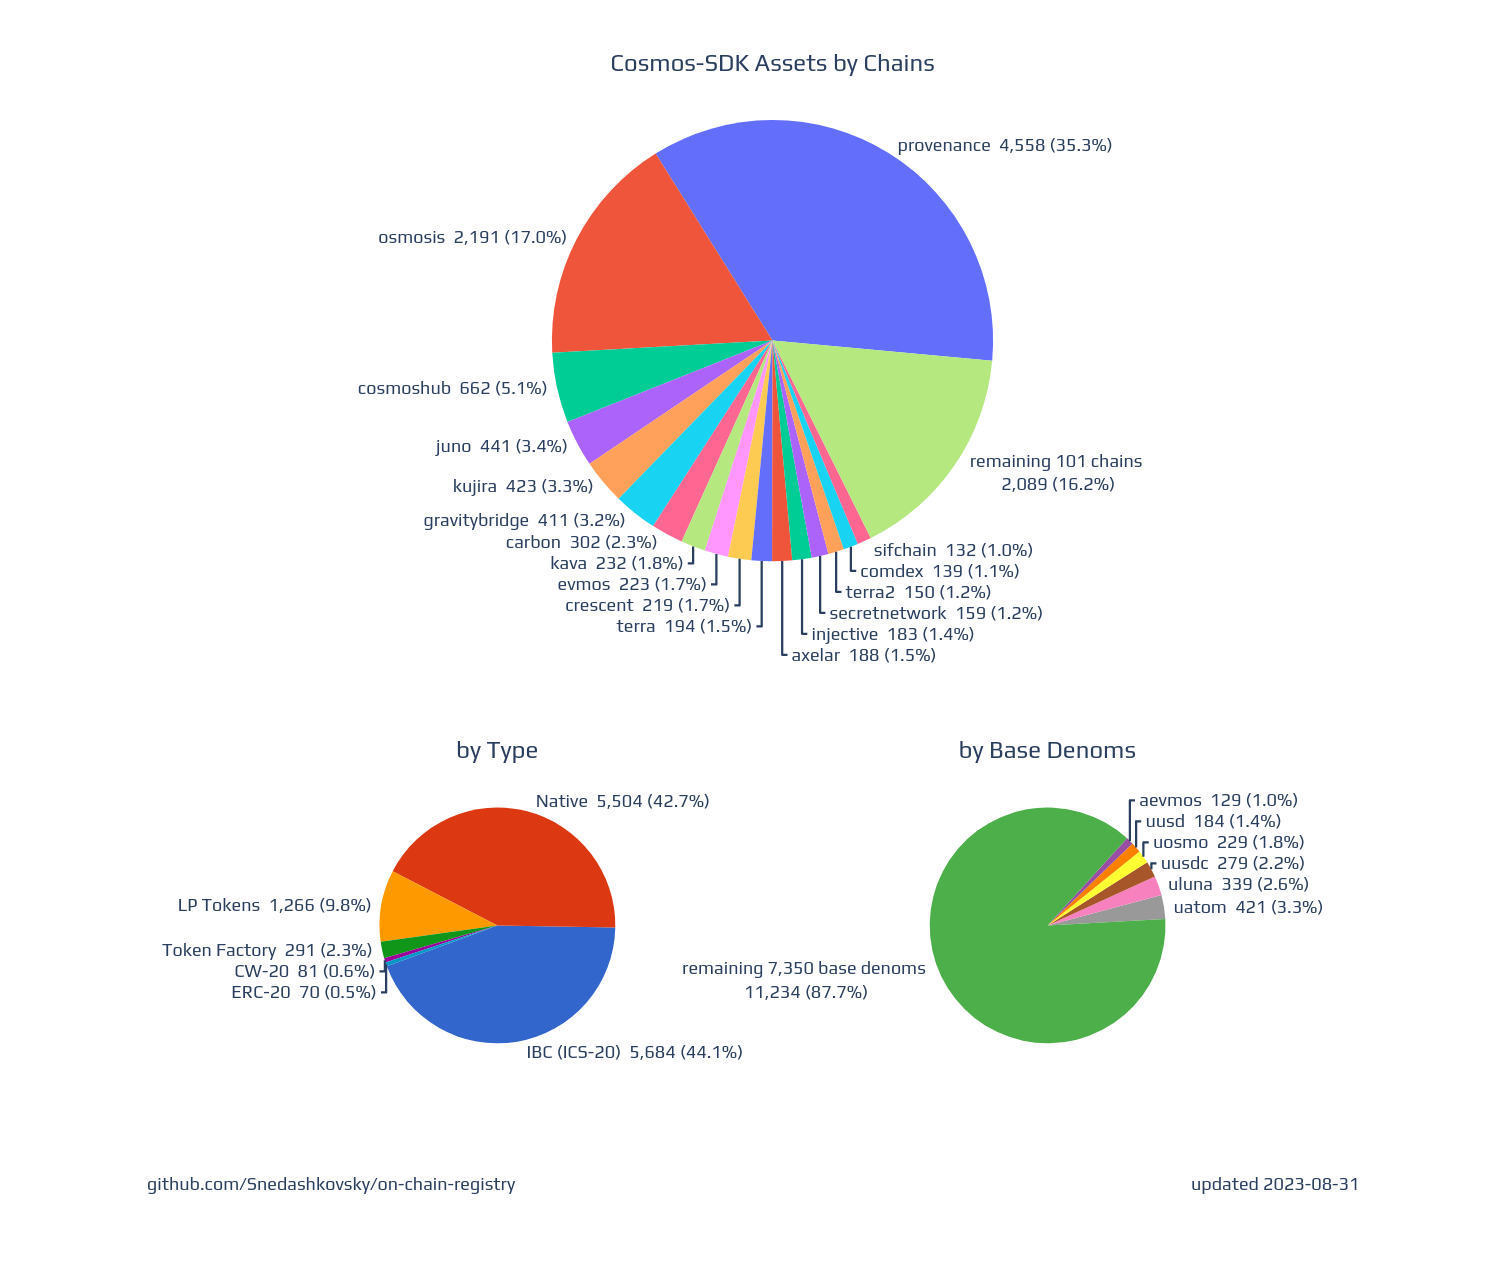
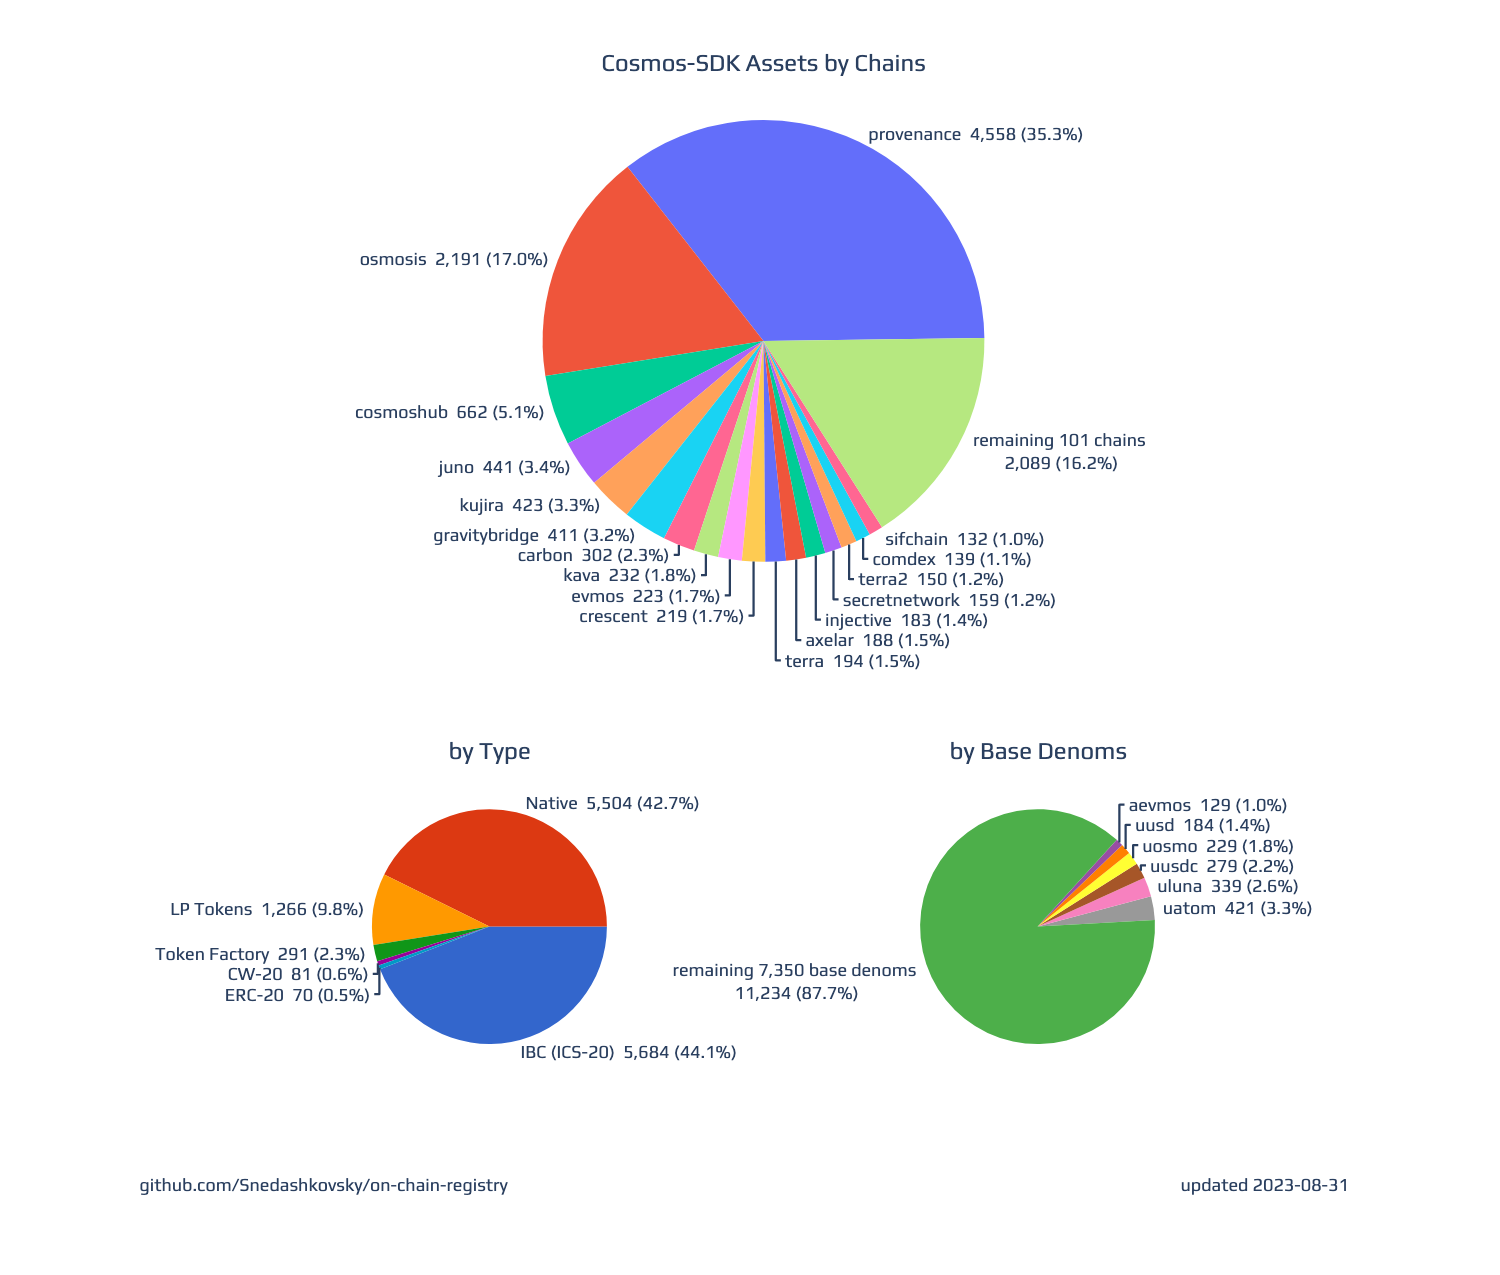
- update charts

diff --git a/charts/index.html b/charts/index.html
@@ -2,6 +2,6 @@
 <head><meta charset="utf-8" /></head>
 <body>
     <div>                        <script type="text/javascript">window.PlotlyConfig = {MathJaxConfig: 'local'};</script>
-        <script charset="utf-8" src="https://cdn.plot.ly/plotly-2.24.1.min.js"></script>                <div id="df564438-068c-45b6-aba3-d0b1ab366893" class="plotly-graph-div" style="height:850px; width:1000px;"></div>            <script type="text/javascript">                                    window.PLOTLYENV=window.PLOTLYENV || {};                                    if (document.getElementById("df564438-068c-45b6-aba3-d0b1ab366893")) {                    Plotly.newPlot(                        "df564438-068c-45b6-aba3-d0b1ab366893",                        [{"labels":["provenance","osmosis","cosmoshub","juno","kujira","gravitybridge","carbon","kava","evmos","crescent","terra","axelar","injective","secretnetwork","terra2","comdex","sifchain","remaining 101 chains\n\u003cbr\u003e"],"marker":{"colors":["#636EFA","#EF553B","#00CC96","#AB63FA","#FFA15A","#19D3F3","#FF6692","#B6E880","#FF97FF","#FECB52"]},"name":"assets by chains","rotation":-32,"sort":false,"text":["4,558","2,191","662","441","423","411","302","232","223","219","194","188","183","159","150","139","132","2,089"],"values":[4558,2191,662,441,423,411,302,232,223,219,194,188,183,159,150,139,132,2089],"type":"pie","domain":{"x":[0.0,1.0],"y":[0.5700000000000001,1.0]},"hoverinfo":"label+value+percent","hovertemplate":"%{label}\u003cbr\u003e%{value:\u003e,} (%{percent:.1%})","textinfo":"label+value+percent","textposition":"outside","texttemplate":" %{label}  %{value:\u003e,} (%{percent:.1%}) "},{"labels":["IBC (ICS-20)","Native","LP Tokens","Token Factory","CW-20","ERC-20"],"marker":{"colors":["#3366CC","#DC3912","#FF9900","#109618","#990099","#0099C6","#DD4477","#66AA00","#B82E2E","#316395"]},"name":"assets by type","rotation":91,"sort":false,"text":["5,684","5,504","1,266","291","81","70"],"values":[5684,5504,1266,291,81,70],"type":"pie","domain":{"x":[0.0,0.3],"y":[0.0,0.43]},"hoverinfo":"label+value+percent","hovertemplate":"%{label}\u003cbr\u003e%{value:\u003e,} (%{percent:.1%})","textinfo":"label+value+percent","textposition":"outside","texttemplate":" %{label}  %{value:\u003e,} (%{percent:.1%}) "},{"labels":["uatom","uluna","uusdc","uosmo","uusd","aevmos","remaining 7,350 base denoms\n\u003cbr\u003e"],"marker":{"colors":["rgb(153,153,153)","rgb(247,129,191)","rgb(166,86,40)","rgb(255,255,51)","rgb(255,127,0)","rgb(152,78,163)","rgb(77,175,74)","rgb(55,126,184)","rgb(228,26,28)"]},"name":"assets by base denoms","rotation":75,"sort":false,"text":["421","339","279","229","184","129","11,234"],"values":[421,339,279,229,184,129,11234],"type":"pie","domain":{"x":[0.7,1.0],"y":[0.0,0.43]},"hoverinfo":"label+value+percent","hovertemplate":"%{label}\u003cbr\u003e%{value:\u003e,} (%{percent:.1%})","textinfo":"label+value+percent","textposition":"outside","texttemplate":" %{label}  %{value:\u003e,} (%{percent:.1%}) "}],                        {"template":{"data":{"barpolar":[{"marker":{"line":{"color":"white","width":0.5},"pattern":{"fillmode":"overlay","size":10,"solidity":0.2}},"type":"barpolar"}],"bar":[{"error_x":{"color":"#2a3f5f"},"error_y":{"color":"#2a3f5f"},"marker":{"line":{"color":"white","width":0.5},"pattern":{"fillmode":"overlay","size":10,"solidity":0.2}},"type":"bar"}],"carpet":[{"aaxis":{"endlinecolor":"#2a3f5f","gridcolor":"#C8D4E3","linecolor":"#C8D4E3","minorgridcolor":"#C8D4E3","startlinecolor":"#2a3f5f"},"baxis":{"endlinecolor":"#2a3f5f","gridcolor":"#C8D4E3","linecolor":"#C8D4E3","minorgridcolor":"#C8D4E3","startlinecolor":"#2a3f5f"},"type":"carpet"}],"choropleth":[{"colorbar":{"outlinewidth":0,"ticks":""},"type":"choropleth"}],"contourcarpet":[{"colorbar":{"outlinewidth":0,"ticks":""},"type":"contourcarpet"}],"contour":[{"colorbar":{"outlinewidth":0,"ticks":""},"colorscale":[[0.0,"#0d0887"],[0.1111111111111111,"#46039f"],[0.2222222222222222,"#7201a8"],[0.3333333333333333,"#9c179e"],[0.4444444444444444,"#bd3786"],[0.5555555555555556,"#d8576b"],[0.6666666666666666,"#ed7953"],[0.7777777777777778,"#fb9f3a"],[0.8888888888888888,"#fdca26"],[1.0,"#f0f921"]],"type":"contour"}],"heatmapgl":[{"colorbar":{"outlinewidth":0,"ticks":""},"colorscale":[[0.0,"#0d0887"],[0.1111111111111111,"#46039f"],[0.2222222222222222,"#7201a8"],[0.3333333333333333,"#9c179e"],[0.4444444444444444,"#bd3786"],[0.5555555555555556,"#d8576b"],[0.6666666666666666,"#ed7953"],[0.7777777777777778,"#fb9f3a"],[0.8888888888888888,"#fdca26"],[1.0,"#f0f921"]],"type":"heatmapgl"}],"heatmap":[{"colorbar":{"outlinewidth":0,"ticks":""},"colorscale":[[0.0,"#0d0887"],[0.1111111111111111,"#46039f"],[0.2222222222222222,"#7201a8"],[0.3333333333333333,"#9c179e"],[0.4444444444444444,"#bd3786"],[0.5555555555555556,"#d8576b"],[0.6666666666666666,"#ed7953"],[0.7777777777777778,"#fb9f3a"],[0.8888888888888888,"#fdca26"],[1.0,"#f0f921"]],"type":"heatmap"}],"histogram2dcontour":[{"colorbar":{"outlinewidth":0,"ticks":""},"colorscale":[[0.0,"#0d0887"],[0.1111111111111111,"#46039f"],[0.2222222222222222,"#7201a8"],[0.3333333333333333,"#9c179e"],[0.4444444444444444,"#bd3786"],[0.5555555555555556,"#d8576b"],[0.6666666666666666,"#ed7953"],[0.7777777777777778,"#fb9f3a"],[0.8888888888888888,"#fdca26"],[1.0,"#f0f921"]],"type":"histogram2dcontour"}],"histogram2d":[{"colorbar":{"outlinewidth":0,"ticks":""},"colorscale":[[0.0,"#0d0887"],[0.1111111111111111,"#46039f"],[0.2222222222222222,"#7201a8"],[0.3333333333333333,"#9c179e"],[0.4444444444444444,"#bd3786"],[0.5555555555555556,"#d8576b"],[0.6666666666666666,"#ed7953"],[0.7777777777777778,"#fb9f3a"],[0.8888888888888888,"#fdca26"],[1.0,"#f0f921"]],"type":"histogram2d"}],"histogram":[{"marker":{"pattern":{"fillmode":"overlay","size":10,"solidity":0.2}},"type":"histogram"}],"mesh3d":[{"colorbar":{"outlinewidth":0,"ticks":""},"type":"mesh3d"}],"parcoords":[{"line":{"colorbar":{"outlinewidth":0,"ticks":""}},"type":"parcoords"}],"pie":[{"automargin":true,"type":"pie"}],"scatter3d":[{"line":{"colorbar":{"outlinewidth":0,"ticks":""}},"marker":{"colorbar":{"outlinewidth":0,"ticks":""}},"type":"scatter3d"}],"scattercarpet":[{"marker":{"colorbar":{"outlinewidth":0,"ticks":""}},"type":"scattercarpet"}],"scattergeo":[{"marker":{"colorbar":{"outlinewidth":0,"ticks":""}},"type":"scattergeo"}],"scattergl":[{"marker":{"colorbar":{"outlinewidth":0,"ticks":""}},"type":"scattergl"}],"scattermapbox":[{"marker":{"colorbar":{"outlinewidth":0,"ticks":""}},"type":"scattermapbox"}],"scatterpolargl":[{"marker":{"colorbar":{"outlinewidth":0,"ticks":""}},"type":"scatterpolargl"}],"scatterpolar":[{"marker":{"colorbar":{"outlinewidth":0,"ticks":""}},"type":"scatterpolar"}],"scatter":[{"fillpattern":{"fillmode":"overlay","size":10,"solidity":0.2},"type":"scatter"}],"scatterternary":[{"marker":{"colorbar":{"outlinewidth":0,"ticks":""}},"type":"scatterternary"}],"surface":[{"colorbar":{"outlinewidth":0,"ticks":""},"colorscale":[[0.0,"#0d0887"],[0.1111111111111111,"#46039f"],[0.2222222222222222,"#7201a8"],[0.3333333333333333,"#9c179e"],[0.4444444444444444,"#bd3786"],[0.5555555555555556,"#d8576b"],[0.6666666666666666,"#ed7953"],[0.7777777777777778,"#fb9f3a"],[0.8888888888888888,"#fdca26"],[1.0,"#f0f921"]],"type":"surface"}],"table":[{"cells":{"fill":{"color":"#EBF0F8"},"line":{"color":"white"}},"header":{"fill":{"color":"#C8D4E3"},"line":{"color":"white"}},"type":"table"}]},"layout":{"annotationdefaults":{"arrowcolor":"#2a3f5f","arrowhead":0,"arrowwidth":1},"autotypenumbers":"strict","coloraxis":{"colorbar":{"outlinewidth":0,"ticks":""}},"colorscale":{"diverging":[[0,"#8e0152"],[0.1,"#c51b7d"],[0.2,"#de77ae"],[0.3,"#f1b6da"],[0.4,"#fde0ef"],[0.5,"#f7f7f7"],[0.6,"#e6f5d0"],[0.7,"#b8e186"],[0.8,"#7fbc41"],[0.9,"#4d9221"],[1,"#276419"]],"sequential":[[0.0,"#0d0887"],[0.1111111111111111,"#46039f"],[0.2222222222222222,"#7201a8"],[0.3333333333333333,"#9c179e"],[0.4444444444444444,"#bd3786"],[0.5555555555555556,"#d8576b"],[0.6666666666666666,"#ed7953"],[0.7777777777777778,"#fb9f3a"],[0.8888888888888888,"#fdca26"],[1.0,"#f0f921"]],"sequentialminus":[[0.0,"#0d0887"],[0.1111111111111111,"#46039f"],[0.2222222222222222,"#7201a8"],[0.3333333333333333,"#9c179e"],[0.4444444444444444,"#bd3786"],[0.5555555555555556,"#d8576b"],[0.6666666666666666,"#ed7953"],[0.7777777777777778,"#fb9f3a"],[0.8888888888888888,"#fdca26"],[1.0,"#f0f921"]]},"colorway":["#636efa","#EF553B","#00cc96","#ab63fa","#FFA15A","#19d3f3","#FF6692","#B6E880","#FF97FF","#FECB52"],"font":{"color":"#2a3f5f"},"geo":{"bgcolor":"white","lakecolor":"white","landcolor":"white","showlakes":true,"showland":true,"subunitcolor":"#C8D4E3"},"hoverlabel":{"align":"left"},"hovermode":"closest","mapbox":{"style":"light"},"paper_bgcolor":"white","plot_bgcolor":"white","polar":{"angularaxis":{"gridcolor":"#EBF0F8","linecolor":"#EBF0F8","ticks":""},"bgcolor":"white","radialaxis":{"gridcolor":"#EBF0F8","linecolor":"#EBF0F8","ticks":""}},"scene":{"xaxis":{"backgroundcolor":"white","gridcolor":"#DFE8F3","gridwidth":2,"linecolor":"#EBF0F8","showbackground":true,"ticks":"","zerolinecolor":"#EBF0F8"},"yaxis":{"backgroundcolor":"white","gridcolor":"#DFE8F3","gridwidth":2,"linecolor":"#EBF0F8","showbackground":true,"ticks":"","zerolinecolor":"#EBF0F8"},"zaxis":{"backgroundcolor":"white","gridcolor":"#DFE8F3","gridwidth":2,"linecolor":"#EBF0F8","showbackground":true,"ticks":"","zerolinecolor":"#EBF0F8"}},"shapedefaults":{"line":{"color":"#2a3f5f"}},"ternary":{"aaxis":{"gridcolor":"#DFE8F3","linecolor":"#A2B1C6","ticks":""},"baxis":{"gridcolor":"#DFE8F3","linecolor":"#A2B1C6","ticks":""},"bgcolor":"white","caxis":{"gridcolor":"#DFE8F3","linecolor":"#A2B1C6","ticks":""}},"title":{"x":0.05},"xaxis":{"automargin":true,"gridcolor":"#EBF0F8","linecolor":"#EBF0F8","ticks":"","title":{"standoff":15},"zerolinecolor":"#EBF0F8","zerolinewidth":2},"yaxis":{"automargin":true,"gridcolor":"#EBF0F8","linecolor":"#EBF0F8","ticks":"","title":{"standoff":15},"zerolinecolor":"#EBF0F8","zerolinewidth":2}}},"annotations":[{"font":{"size":16},"showarrow":false,"text":"Cosmos-SDK Assets by Chains","x":0.5,"xanchor":"center","xref":"paper","y":1.04,"yanchor":"bottom","yref":"paper"},{"font":{"size":16},"showarrow":false,"text":"by Type","x":0.15,"xanchor":"center","xref":"paper","y":0.37,"yanchor":"bottom","yref":"paper"},{"font":{"size":16},"showarrow":false,"text":"by Base Denoms","x":0.85,"xanchor":"center","xref":"paper","y":0.37,"yanchor":"bottom","yref":"paper"},{"showarrow":false,"text":"github.com\u002fSnedashkovsky\u002fon-chain-registry","x":-0.3,"y":-0.05},{"showarrow":false,"text":"updated 2023-08-31","x":1.25,"y":-0.05}],"font":{"family":"Play"},"title":{"text":"","x":0.5},"margin":{"l":0,"r":0,"t":80,"b":0},"height":850,"width":1000,"showlegend":false,"autosize":false},                        {"responsive": true}                    )                };                            </script>        </div>
+        <script charset="utf-8" src="https://cdn.plot.ly/plotly-2.24.1.min.js"></script>                <div id="9d65d815-6309-46cc-b9c2-4e61d6320eeb" class="plotly-graph-div" style="height:850px; width:1000px;"></div>            <script type="text/javascript">                                    window.PLOTLYENV=window.PLOTLYENV || {};                                    if (document.getElementById("9d65d815-6309-46cc-b9c2-4e61d6320eeb")) {                    Plotly.newPlot(                        "9d65d815-6309-46cc-b9c2-4e61d6320eeb",                        [{"labels":["provenance","osmosis","cosmoshub","juno","kujira","gravitybridge","carbon","kava","evmos","crescent","terra","axelar","injective","secretnetwork","terra2","comdex","sifchain","remaining 101 chains\n\u003cbr\u003e"],"marker":{"colors":["#636EFA","#EF553B","#00CC96","#AB63FA","#FFA15A","#19D3F3","#FF6692","#B6E880","#FF97FF","#FECB52"]},"name":"assets by chains","rotation":-38,"sort":false,"text":["4,558","2,191","662","441","423","411","302","232","223","219","194","188","183","159","150","139","132","2,089"],"values":[4558,2191,662,441,423,411,302,232,223,219,194,188,183,159,150,139,132,2089],"type":"pie","domain":{"x":[0.0,1.0],"y":[0.5700000000000001,1.0]},"hoverinfo":"label+value+percent","hovertemplate":"%{label}\u003cbr\u003e%{value:\u003e,} (%{percent:.1%})","textinfo":"label+value+percent","textposition":"outside","texttemplate":" %{label}  %{value:\u003e,} (%{percent:.1%}) "},{"labels":["IBC (ICS-20)","Native","LP Tokens","Token Factory","CW-20","ERC-20"],"marker":{"colors":["#3366CC","#DC3912","#FF9900","#109618","#990099","#0099C6","#DD4477","#66AA00","#B82E2E","#316395"]},"name":"assets by type","rotation":90,"sort":false,"text":["5,684","5,504","1,266","291","81","70"],"values":[5684,5504,1266,291,81,70],"type":"pie","domain":{"x":[0.0,0.3],"y":[0.0,0.43]},"hoverinfo":"label+value+percent","hovertemplate":"%{label}\u003cbr\u003e%{value:\u003e,} (%{percent:.1%})","textinfo":"label+value+percent","textposition":"outside","texttemplate":" %{label}  %{value:\u003e,} (%{percent:.1%}) "},{"labels":["uatom","uluna","uusdc","uosmo","uusd","aevmos","remaining 7,350 base denoms\n\u003cbr\u003e"],"marker":{"colors":["rgb(153,153,153)","rgb(247,129,191)","rgb(166,86,40)","rgb(255,255,51)","rgb(255,127,0)","rgb(152,78,163)","rgb(77,175,74)","rgb(55,126,184)","rgb(228,26,28)"]},"name":"assets by base denoms","rotation":75,"sort":false,"text":["421","339","279","229","184","129","11,234"],"values":[421,339,279,229,184,129,11234],"type":"pie","domain":{"x":[0.7,1.0],"y":[0.0,0.43]},"hoverinfo":"label+value+percent","hovertemplate":"%{label}\u003cbr\u003e%{value:\u003e,} (%{percent:.1%})","textinfo":"label+value+percent","textposition":"outside","texttemplate":" %{label}  %{value:\u003e,} (%{percent:.1%}) "}],                        {"template":{"data":{"barpolar":[{"marker":{"line":{"color":"white","width":0.5},"pattern":{"fillmode":"overlay","size":10,"solidity":0.2}},"type":"barpolar"}],"bar":[{"error_x":{"color":"#2a3f5f"},"error_y":{"color":"#2a3f5f"},"marker":{"line":{"color":"white","width":0.5},"pattern":{"fillmode":"overlay","size":10,"solidity":0.2}},"type":"bar"}],"carpet":[{"aaxis":{"endlinecolor":"#2a3f5f","gridcolor":"#C8D4E3","linecolor":"#C8D4E3","minorgridcolor":"#C8D4E3","startlinecolor":"#2a3f5f"},"baxis":{"endlinecolor":"#2a3f5f","gridcolor":"#C8D4E3","linecolor":"#C8D4E3","minorgridcolor":"#C8D4E3","startlinecolor":"#2a3f5f"},"type":"carpet"}],"choropleth":[{"colorbar":{"outlinewidth":0,"ticks":""},"type":"choropleth"}],"contourcarpet":[{"colorbar":{"outlinewidth":0,"ticks":""},"type":"contourcarpet"}],"contour":[{"colorbar":{"outlinewidth":0,"ticks":""},"colorscale":[[0.0,"#0d0887"],[0.1111111111111111,"#46039f"],[0.2222222222222222,"#7201a8"],[0.3333333333333333,"#9c179e"],[0.4444444444444444,"#bd3786"],[0.5555555555555556,"#d8576b"],[0.6666666666666666,"#ed7953"],[0.7777777777777778,"#fb9f3a"],[0.8888888888888888,"#fdca26"],[1.0,"#f0f921"]],"type":"contour"}],"heatmapgl":[{"colorbar":{"outlinewidth":0,"ticks":""},"colorscale":[[0.0,"#0d0887"],[0.1111111111111111,"#46039f"],[0.2222222222222222,"#7201a8"],[0.3333333333333333,"#9c179e"],[0.4444444444444444,"#bd3786"],[0.5555555555555556,"#d8576b"],[0.6666666666666666,"#ed7953"],[0.7777777777777778,"#fb9f3a"],[0.8888888888888888,"#fdca26"],[1.0,"#f0f921"]],"type":"heatmapgl"}],"heatmap":[{"colorbar":{"outlinewidth":0,"ticks":""},"colorscale":[[0.0,"#0d0887"],[0.1111111111111111,"#46039f"],[0.2222222222222222,"#7201a8"],[0.3333333333333333,"#9c179e"],[0.4444444444444444,"#bd3786"],[0.5555555555555556,"#d8576b"],[0.6666666666666666,"#ed7953"],[0.7777777777777778,"#fb9f3a"],[0.8888888888888888,"#fdca26"],[1.0,"#f0f921"]],"type":"heatmap"}],"histogram2dcontour":[{"colorbar":{"outlinewidth":0,"ticks":""},"colorscale":[[0.0,"#0d0887"],[0.1111111111111111,"#46039f"],[0.2222222222222222,"#7201a8"],[0.3333333333333333,"#9c179e"],[0.4444444444444444,"#bd3786"],[0.5555555555555556,"#d8576b"],[0.6666666666666666,"#ed7953"],[0.7777777777777778,"#fb9f3a"],[0.8888888888888888,"#fdca26"],[1.0,"#f0f921"]],"type":"histogram2dcontour"}],"histogram2d":[{"colorbar":{"outlinewidth":0,"ticks":""},"colorscale":[[0.0,"#0d0887"],[0.1111111111111111,"#46039f"],[0.2222222222222222,"#7201a8"],[0.3333333333333333,"#9c179e"],[0.4444444444444444,"#bd3786"],[0.5555555555555556,"#d8576b"],[0.6666666666666666,"#ed7953"],[0.7777777777777778,"#fb9f3a"],[0.8888888888888888,"#fdca26"],[1.0,"#f0f921"]],"type":"histogram2d"}],"histogram":[{"marker":{"pattern":{"fillmode":"overlay","size":10,"solidity":0.2}},"type":"histogram"}],"mesh3d":[{"colorbar":{"outlinewidth":0,"ticks":""},"type":"mesh3d"}],"parcoords":[{"line":{"colorbar":{"outlinewidth":0,"ticks":""}},"type":"parcoords"}],"pie":[{"automargin":true,"type":"pie"}],"scatter3d":[{"line":{"colorbar":{"outlinewidth":0,"ticks":""}},"marker":{"colorbar":{"outlinewidth":0,"ticks":""}},"type":"scatter3d"}],"scattercarpet":[{"marker":{"colorbar":{"outlinewidth":0,"ticks":""}},"type":"scattercarpet"}],"scattergeo":[{"marker":{"colorbar":{"outlinewidth":0,"ticks":""}},"type":"scattergeo"}],"scattergl":[{"marker":{"colorbar":{"outlinewidth":0,"ticks":""}},"type":"scattergl"}],"scattermapbox":[{"marker":{"colorbar":{"outlinewidth":0,"ticks":""}},"type":"scattermapbox"}],"scatterpolargl":[{"marker":{"colorbar":{"outlinewidth":0,"ticks":""}},"type":"scatterpolargl"}],"scatterpolar":[{"marker":{"colorbar":{"outlinewidth":0,"ticks":""}},"type":"scatterpolar"}],"scatter":[{"fillpattern":{"fillmode":"overlay","size":10,"solidity":0.2},"type":"scatter"}],"scatterternary":[{"marker":{"colorbar":{"outlinewidth":0,"ticks":""}},"type":"scatterternary"}],"surface":[{"colorbar":{"outlinewidth":0,"ticks":""},"colorscale":[[0.0,"#0d0887"],[0.1111111111111111,"#46039f"],[0.2222222222222222,"#7201a8"],[0.3333333333333333,"#9c179e"],[0.4444444444444444,"#bd3786"],[0.5555555555555556,"#d8576b"],[0.6666666666666666,"#ed7953"],[0.7777777777777778,"#fb9f3a"],[0.8888888888888888,"#fdca26"],[1.0,"#f0f921"]],"type":"surface"}],"table":[{"cells":{"fill":{"color":"#EBF0F8"},"line":{"color":"white"}},"header":{"fill":{"color":"#C8D4E3"},"line":{"color":"white"}},"type":"table"}]},"layout":{"annotationdefaults":{"arrowcolor":"#2a3f5f","arrowhead":0,"arrowwidth":1},"autotypenumbers":"strict","coloraxis":{"colorbar":{"outlinewidth":0,"ticks":""}},"colorscale":{"diverging":[[0,"#8e0152"],[0.1,"#c51b7d"],[0.2,"#de77ae"],[0.3,"#f1b6da"],[0.4,"#fde0ef"],[0.5,"#f7f7f7"],[0.6,"#e6f5d0"],[0.7,"#b8e186"],[0.8,"#7fbc41"],[0.9,"#4d9221"],[1,"#276419"]],"sequential":[[0.0,"#0d0887"],[0.1111111111111111,"#46039f"],[0.2222222222222222,"#7201a8"],[0.3333333333333333,"#9c179e"],[0.4444444444444444,"#bd3786"],[0.5555555555555556,"#d8576b"],[0.6666666666666666,"#ed7953"],[0.7777777777777778,"#fb9f3a"],[0.8888888888888888,"#fdca26"],[1.0,"#f0f921"]],"sequentialminus":[[0.0,"#0d0887"],[0.1111111111111111,"#46039f"],[0.2222222222222222,"#7201a8"],[0.3333333333333333,"#9c179e"],[0.4444444444444444,"#bd3786"],[0.5555555555555556,"#d8576b"],[0.6666666666666666,"#ed7953"],[0.7777777777777778,"#fb9f3a"],[0.8888888888888888,"#fdca26"],[1.0,"#f0f921"]]},"colorway":["#636efa","#EF553B","#00cc96","#ab63fa","#FFA15A","#19d3f3","#FF6692","#B6E880","#FF97FF","#FECB52"],"font":{"color":"#2a3f5f"},"geo":{"bgcolor":"white","lakecolor":"white","landcolor":"white","showlakes":true,"showland":true,"subunitcolor":"#C8D4E3"},"hoverlabel":{"align":"left"},"hovermode":"closest","mapbox":{"style":"light"},"paper_bgcolor":"white","plot_bgcolor":"white","polar":{"angularaxis":{"gridcolor":"#EBF0F8","linecolor":"#EBF0F8","ticks":""},"bgcolor":"white","radialaxis":{"gridcolor":"#EBF0F8","linecolor":"#EBF0F8","ticks":""}},"scene":{"xaxis":{"backgroundcolor":"white","gridcolor":"#DFE8F3","gridwidth":2,"linecolor":"#EBF0F8","showbackground":true,"ticks":"","zerolinecolor":"#EBF0F8"},"yaxis":{"backgroundcolor":"white","gridcolor":"#DFE8F3","gridwidth":2,"linecolor":"#EBF0F8","showbackground":true,"ticks":"","zerolinecolor":"#EBF0F8"},"zaxis":{"backgroundcolor":"white","gridcolor":"#DFE8F3","gridwidth":2,"linecolor":"#EBF0F8","showbackground":true,"ticks":"","zerolinecolor":"#EBF0F8"}},"shapedefaults":{"line":{"color":"#2a3f5f"}},"ternary":{"aaxis":{"gridcolor":"#DFE8F3","linecolor":"#A2B1C6","ticks":""},"baxis":{"gridcolor":"#DFE8F3","linecolor":"#A2B1C6","ticks":""},"bgcolor":"white","caxis":{"gridcolor":"#DFE8F3","linecolor":"#A2B1C6","ticks":""}},"title":{"x":0.05},"xaxis":{"automargin":true,"gridcolor":"#EBF0F8","linecolor":"#EBF0F8","ticks":"","title":{"standoff":15},"zerolinecolor":"#EBF0F8","zerolinewidth":2},"yaxis":{"automargin":true,"gridcolor":"#EBF0F8","linecolor":"#EBF0F8","ticks":"","title":{"standoff":15},"zerolinecolor":"#EBF0F8","zerolinewidth":2}}},"annotations":[{"font":{"size":16},"showarrow":false,"text":"Cosmos-SDK Assets by Chains","x":0.5,"xanchor":"center","xref":"paper","y":1.04,"yanchor":"bottom","yref":"paper"},{"font":{"size":16},"showarrow":false,"text":"by Type","x":0.15,"xanchor":"center","xref":"paper","y":0.37,"yanchor":"bottom","yref":"paper"},{"font":{"size":16},"showarrow":false,"text":"by Base Denoms","x":0.85,"xanchor":"center","xref":"paper","y":0.37,"yanchor":"bottom","yref":"paper"},{"showarrow":false,"text":"github.com\u002fSnedashkovsky\u002fon-chain-registry","x":-0.3,"y":-0.05},{"showarrow":false,"text":"updated 2023-08-31","x":1.25,"y":-0.05}],"font":{"family":"Play"},"title":{"text":"","x":0.5},"margin":{"l":0,"r":0,"t":80,"b":0},"height":850,"width":1000,"showlegend":false,"autosize":false},                        {"responsive": true}                    )                };                            </script>        </div>
 </body>
 </html>
